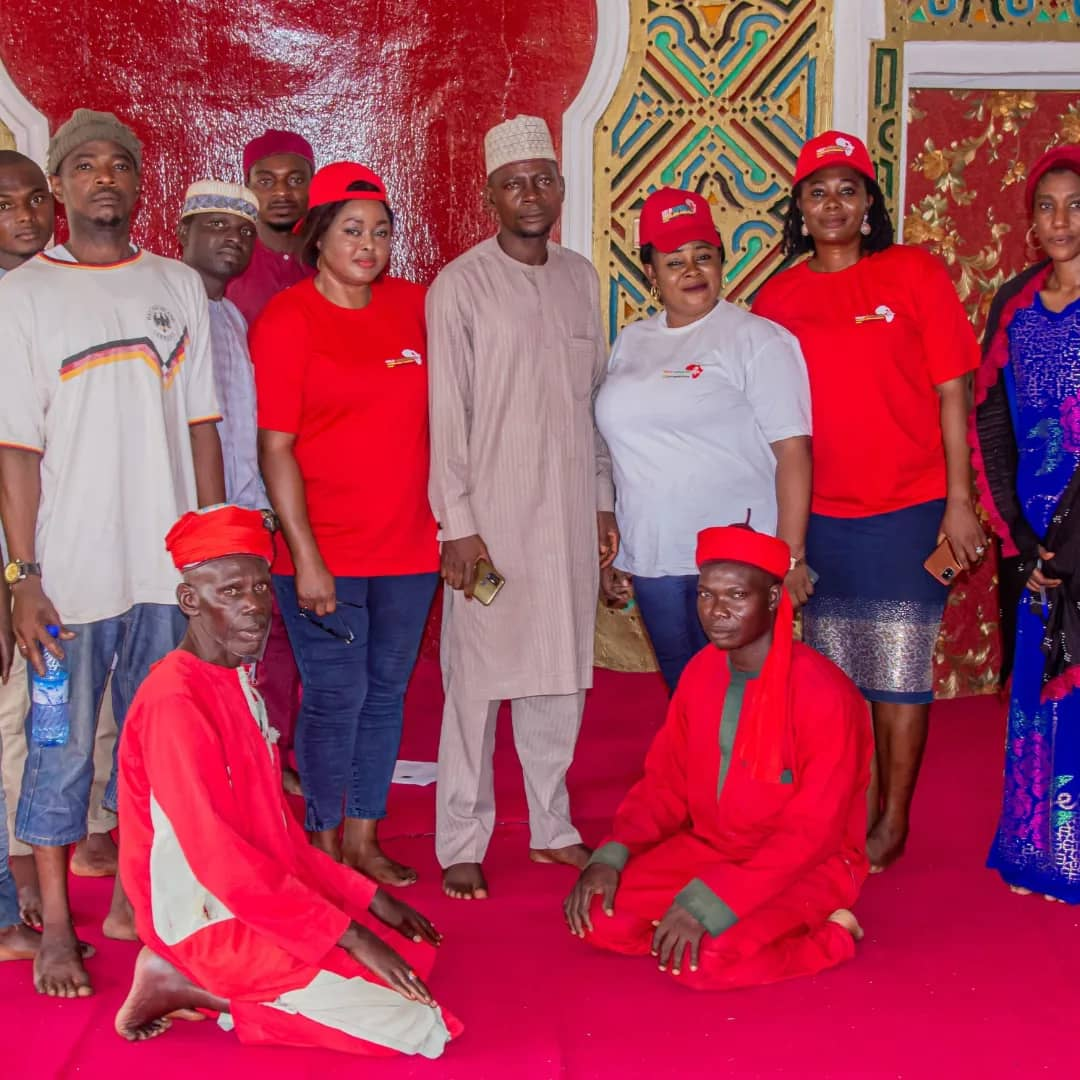
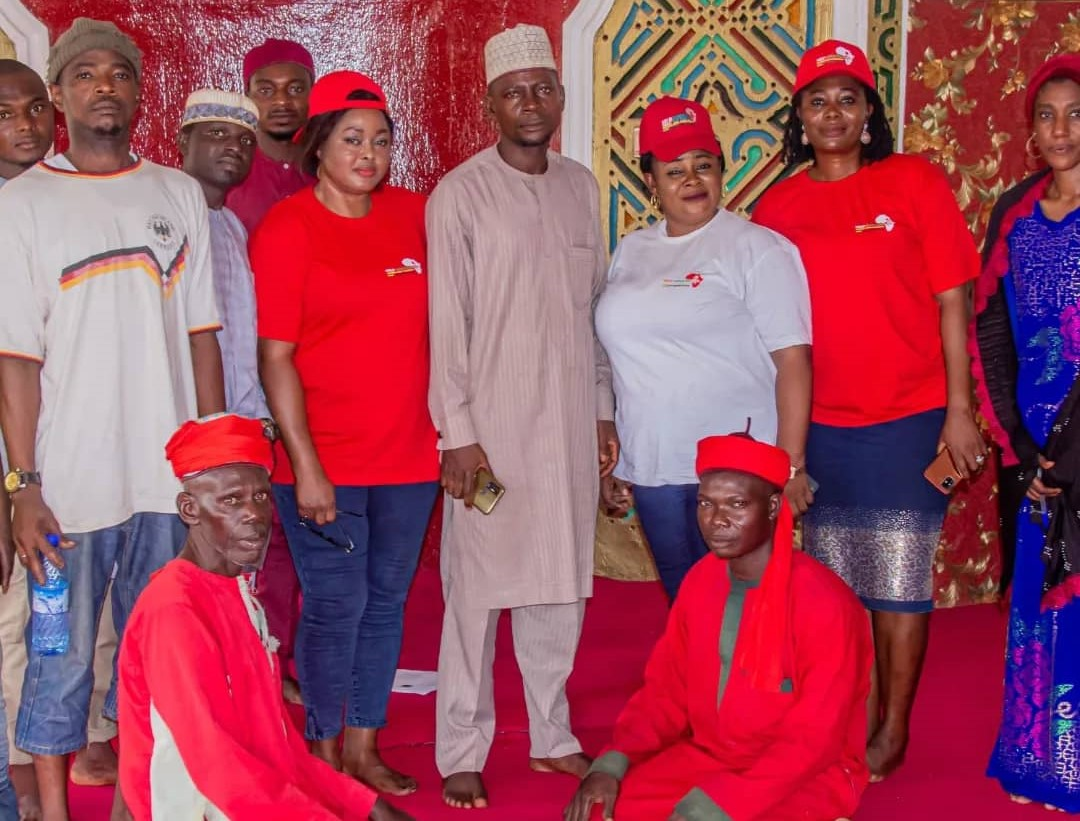
president video

diff --git a/mainapp/templates/main/index.html b/mainapp/templates/main/index.html
@@ -129,54 +129,56 @@
       <div class="flex flex-wrap flex-col   sm:flex-row ">
 
       
-      <div class="sm:w-1/2 ">
-      
-      <div class=" flex flex-col sm:flex-row p-8 pt-0 ">
-        <div class="w-full ">
-          <img src="{{ news.first.upload.url }}" alt="">
-    
-          <div class="p-6">
-            <h2 class="text-2xl text-white my-2 font-bold">
-              {{news.first.caption}}
-            </h2>
-            <h5 class="text-xs text-white">Date: {{news.first.posted_at}}</h5>
-            <p class="text-gray-200 text-sm sm:text-justify">
-              {{news.first.body}}
-            </p>
+        <div class="sm:w-1/2 ">
+        
+          <div class=" flex flex-col sm:flex-row p-8 pt-0 ">
+            <div class="w-full ">
+              
+              <img src="{{ news.first.upload.url }}" alt="" class="max-w-full h-auto" />
+        
+              <div class="p-6">
+                <h2 class="text-2xl text-white my-2 font-bold">
+                  {{news.first.caption}}
+                </h2>
+                <h5 class="text-xs text-white">Date: {{news.first.posted_at}}</h5>
+                <p class="text-gray-200 text-sm sm:text-justify">
+                  {{news.first.body}}
+                </p>
+              </div>
+              
+            </div>
           </div>
-          
         </div>
-      </div>
-      </div>
     
    
     
-    <div class="sm:w-1/2">
-      {% for post in news|slice:"1:4" %}
-      <div class="px-6">
-          <div class=" flex flex-col sm:flex-row  w-full  mb-4">
-              <div class="sm:w-2/5">
-                <img src="{{ post.upload.url }}" alt="">
-              </div>
-    
-              <div class="sm:w-3/5 p-4">
-                <h2 class="text-xl text-white my-2 font-bold">
-                  {{post.caption}}
-                </h2>
-                <h5 class="text-xs text-white">{{post.posted_at}}</h5>
-                <p class="text-gray-200 text-sm  " style="text-overflow: ellipsis; white-space: nowrap; overflow: hidden;">
-                  {{post.body}}
-                </p>
-                <a href="#" class="font-bold underline text-white">read more...</a>
-                
-              </div>
-          </div>
-    </div>
-    {% endfor %}
-    <button class="border text-white ml-6 text-sm px-4 py-2 rounded hover:bg-white hover:text-red-500 hover:font-bold">More News</button>
-    </div>
-    
-    </div>
+        <div class="sm:w-1/2">
+          {% for post in news|slice:"1:4" %}
+          <div class="px-6">
+                <div class=" flex flex-col sm:flex-row  w-full  mb-4">
+                  <div class="sm:w-2/5">
+                    <img src="{{ post.upload.url }}" alt="" class="max-w-full h-auto">
+                  </div>
+        
+                  <div class="sm:w-3/5 p-4">
+                    <h2 class="text-xl text-white my-2 font-bold">
+                      {{post.caption}}
+                    </h2>
+                    <h5 class="text-xs text-white">{{post.posted_at}}</h5>
+                    <p class="text-gray-200 text-sm  " style="text-overflow: ellipsis; white-space: nowrap; overflow: hidden;">
+                      {{post.body}}
+                    </p>
+                    <a href="#" class="font-bold underline text-white">read more...</a>
+                    
+                  </div>
+                </div>
+            </div>
+            {% endfor %}
+          <button class="border text-white ml-6 text-sm px-4 py-2 rounded hover:bg-white hover:text-red-500 hover:font-bold">More News</button>
+        
+        </div>
+        
+      </div>
     </section>
 
     <section>
